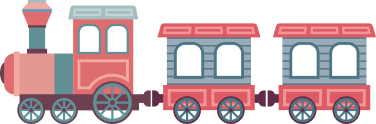
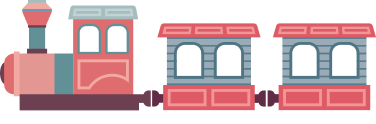
[cartoon] sprout4 ani 중간 저장

diff --git a/src/views/cartoon/sprout/Sprout_page4.js b/src/views/cartoon/sprout/Sprout_page4.js
@@ -52,6 +52,29 @@ function sprout_page4_firecracker3_ani() {
     outside.classList.add("zoomIn");
   }, 700);
 }
+function sprout_page4_train1_wheel_ani() {
+  document
+    .getElementById("sprout_page4_train1_wheel1")
+    .classList.add("wheel-rotate");
+  document
+    .getElementById("sprout_page4_train1_wheel2")
+    .classList.add("wheel-rotate");
+  document
+    .getElementById("sprout_page4_train1_wheel3")
+    .classList.add("wheel-rotate");
+  document
+    .getElementById("sprout_page4_train1_wheel4")
+    .classList.add("wheel-rotate");
+  document
+    .getElementById("sprout_page4_train1_wheel5")
+    .classList.add("wheel-rotate");
+  document
+    .getElementById("sprout_page4_train1_wheel6")
+    .classList.add("wheel-rotate");
+  document
+    .getElementById("sprout_page4_train1_wheel7")
+    .classList.add("wheel-rotate");
+}
 function sprout_page4_train2() {
   var target = document.getElementById("sprout_page4_train2");
 }
@@ -70,6 +93,7 @@ function Sprout_page4() {
     sprout_page4_firecracker1_ani();
     sprout_page4_firecracker2_ani();
     sprout_page4_firecracker3_ani();
+    sprout_page4_train1_wheel_ani();
   }, []);
   return (
     <div className="bee_container">
@@ -122,7 +146,37 @@ function Sprout_page4() {
               className="inlineBlock"
             ></div>
           </div>
-          <div id="sprout_page4_train1" className="inlineBlock"></div>
+          <div id="sprout_page4_train1_wrap" className="inlineBlock">
+            <div id="sprout_page4_train1" className="inlineBlock"></div>
+            <div
+              id="sprout_page4_train1_wheel1"
+              className="inlineBlock sprout_page4_train1_wheel"
+            ></div>
+            <div
+              id="sprout_page4_train1_wheel2"
+              className="inlineBlock sprout_page4_train1_wheel"
+            ></div>
+            <div
+              id="sprout_page4_train1_wheel3"
+              className="inlineBlock sprout_page4_train1_wheel"
+            ></div>
+            <div
+              id="sprout_page4_train1_wheel4"
+              className="inlineBlock sprout_page4_train1_wheel"
+            ></div>
+            <div
+              id="sprout_page4_train1_wheel5"
+              className="inlineBlock sprout_page4_train1_wheel"
+            ></div>
+            <div
+              id="sprout_page4_train1_wheel6"
+              className="inlineBlock sprout_page4_train1_wheel"
+            ></div>
+            <div
+              id="sprout_page4_train1_wheel7"
+              className="inlineBlock sprout_page4_train1_wheel"
+            ></div>
+          </div>
           <div id="sprout_page4_train2" className="inlineBlock"></div>
           <div id="sprout_page4_persons" className="inlineBlock"></div>
           <div id="sprout_page4_persons_effect" className="inlineBlock"></div>

diff --git a/src/views/cartoon/sprout/Sprout_page4.css b/src/views/cartoon/sprout/Sprout_page4.css
@@ -152,13 +152,50 @@
   margin-left: 57%;
   content: url(/public/img/cartoon/sprout/page4/horse.png);
 }
-#sprout_page4_train1 {
+#sprout_page4_train1_wrap {
+  width: 48%;
+  height: 8%;
   bottom: 0;
   right: 0;
-  height: 7%;
-  margin-bottom: 94%;
+  margin-bottom: 90%;
+  background-color: aquamarine;
+}
+#sprout_page4_train1 {
+  top: 0;
+  right: 0;
+  height: 90%;
+  width: 100%;
   margin-right: 3%;
   content: url(/public/img/cartoon/sprout/page4/train.png);
+}
+.sprout_page4_train1_wheel {
+  bottom: 0;
+  height: 25%;
+  right: 0;
+  margin-bottom: 1%;
+  content: url(/public/img/cartoon/sprout/page4/train1_wheel.png);
+}
+#sprout_page4_train1_wheel1 {
+  margin-right: 90%;
+}
+#sprout_page4_train1_wheel2 {
+  margin-right: 80%;
+}
+#sprout_page4_train1_wheel3 {
+  height: 35%;
+  margin-right: 66%;
+}
+#sprout_page4_train1_wheel4 {
+  margin-right: 49%;
+}
+#sprout_page4_train1_wheel5 {
+  margin-right: 38%;
+}
+#sprout_page4_train1_wheel6 {
+  margin-right: 18%;
+}
+#sprout_page4_train1_wheel7 {
+  margin-right: 7%;
 }
 #sprout_page4_train2 {
   top: 0;

diff --git a/src/views/cartoon/AniZip.css b/src/views/cartoon/AniZip.css
@@ -23,6 +23,16 @@
   animation-duration: 2s;
   animation-iteration-count: infinite;
 }
+.wheel-rotate {
+  animation-name: wheel-rotate;
+  animation-duration: 3s;
+  animation-timing-function: linear;
+  animation-iteration-count: infinite;
+}
+.move_train {
+  animation-name: move_train;
+  animation-duration: 5s;
+}
 
 @keyframes fadeInUp {
   from {
@@ -59,6 +69,13 @@
     transform: translateY(10px);
   }
 }
+@keyframes rolling_wheel {
+  from {
+  }
+  to {
+    rotate: 360;
+  }
+}
 @keyframes zoomIn {
   from {
     opacity: 0;
@@ -67,5 +84,20 @@
 
   50% {
     opacity: 1;
+  }
+}
+@keyframes wheel-rotate {
+  0% {
+    transform: rotate(0);
+  }
+  100% {
+    transform: rotate(360deg);
+  }
+}
+@keyframes move_train {
+  from {
+  }
+  to {
+    transform: translateX(-100%);
   }
 }

diff --git a/src/views/cartoon/bee/Bee_page1.css b/src/views/cartoon/bee/Bee_page1.css
@@ -112,7 +112,7 @@
   margin-top: 11%;
   width: 51%;
   height: 3.3%;
-  /*background-color: brown;*/
+  background-color: brown;
 }
 #bee_page1_person1_progressBar_wrap {
   position: relative;
